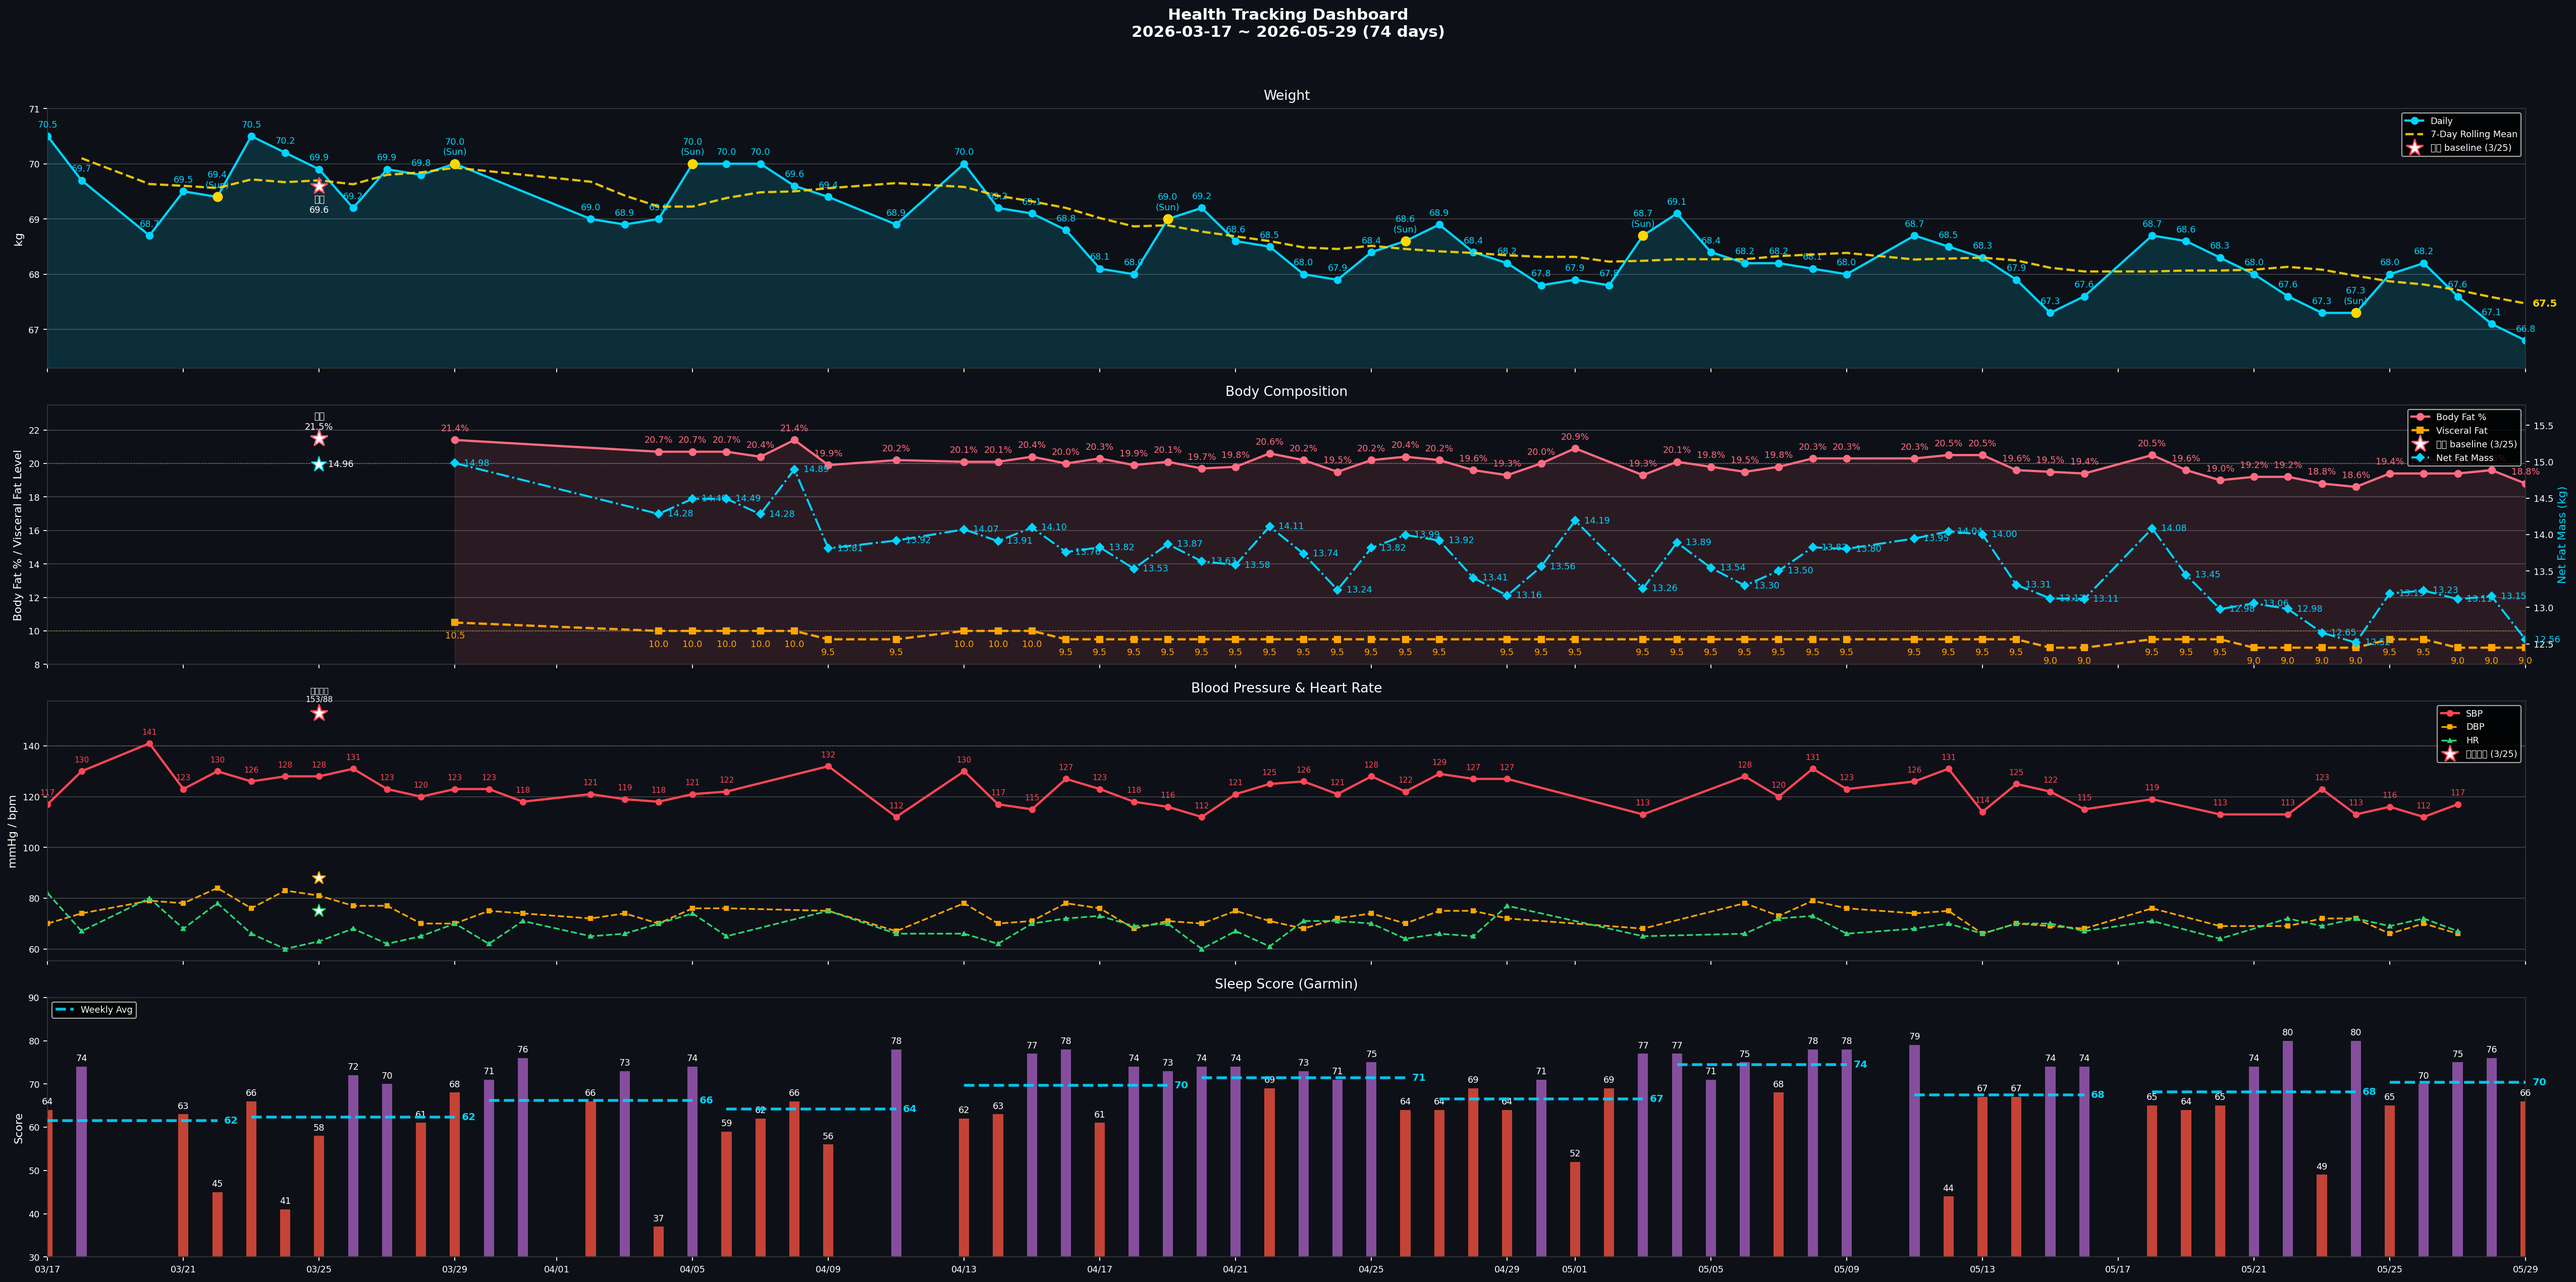
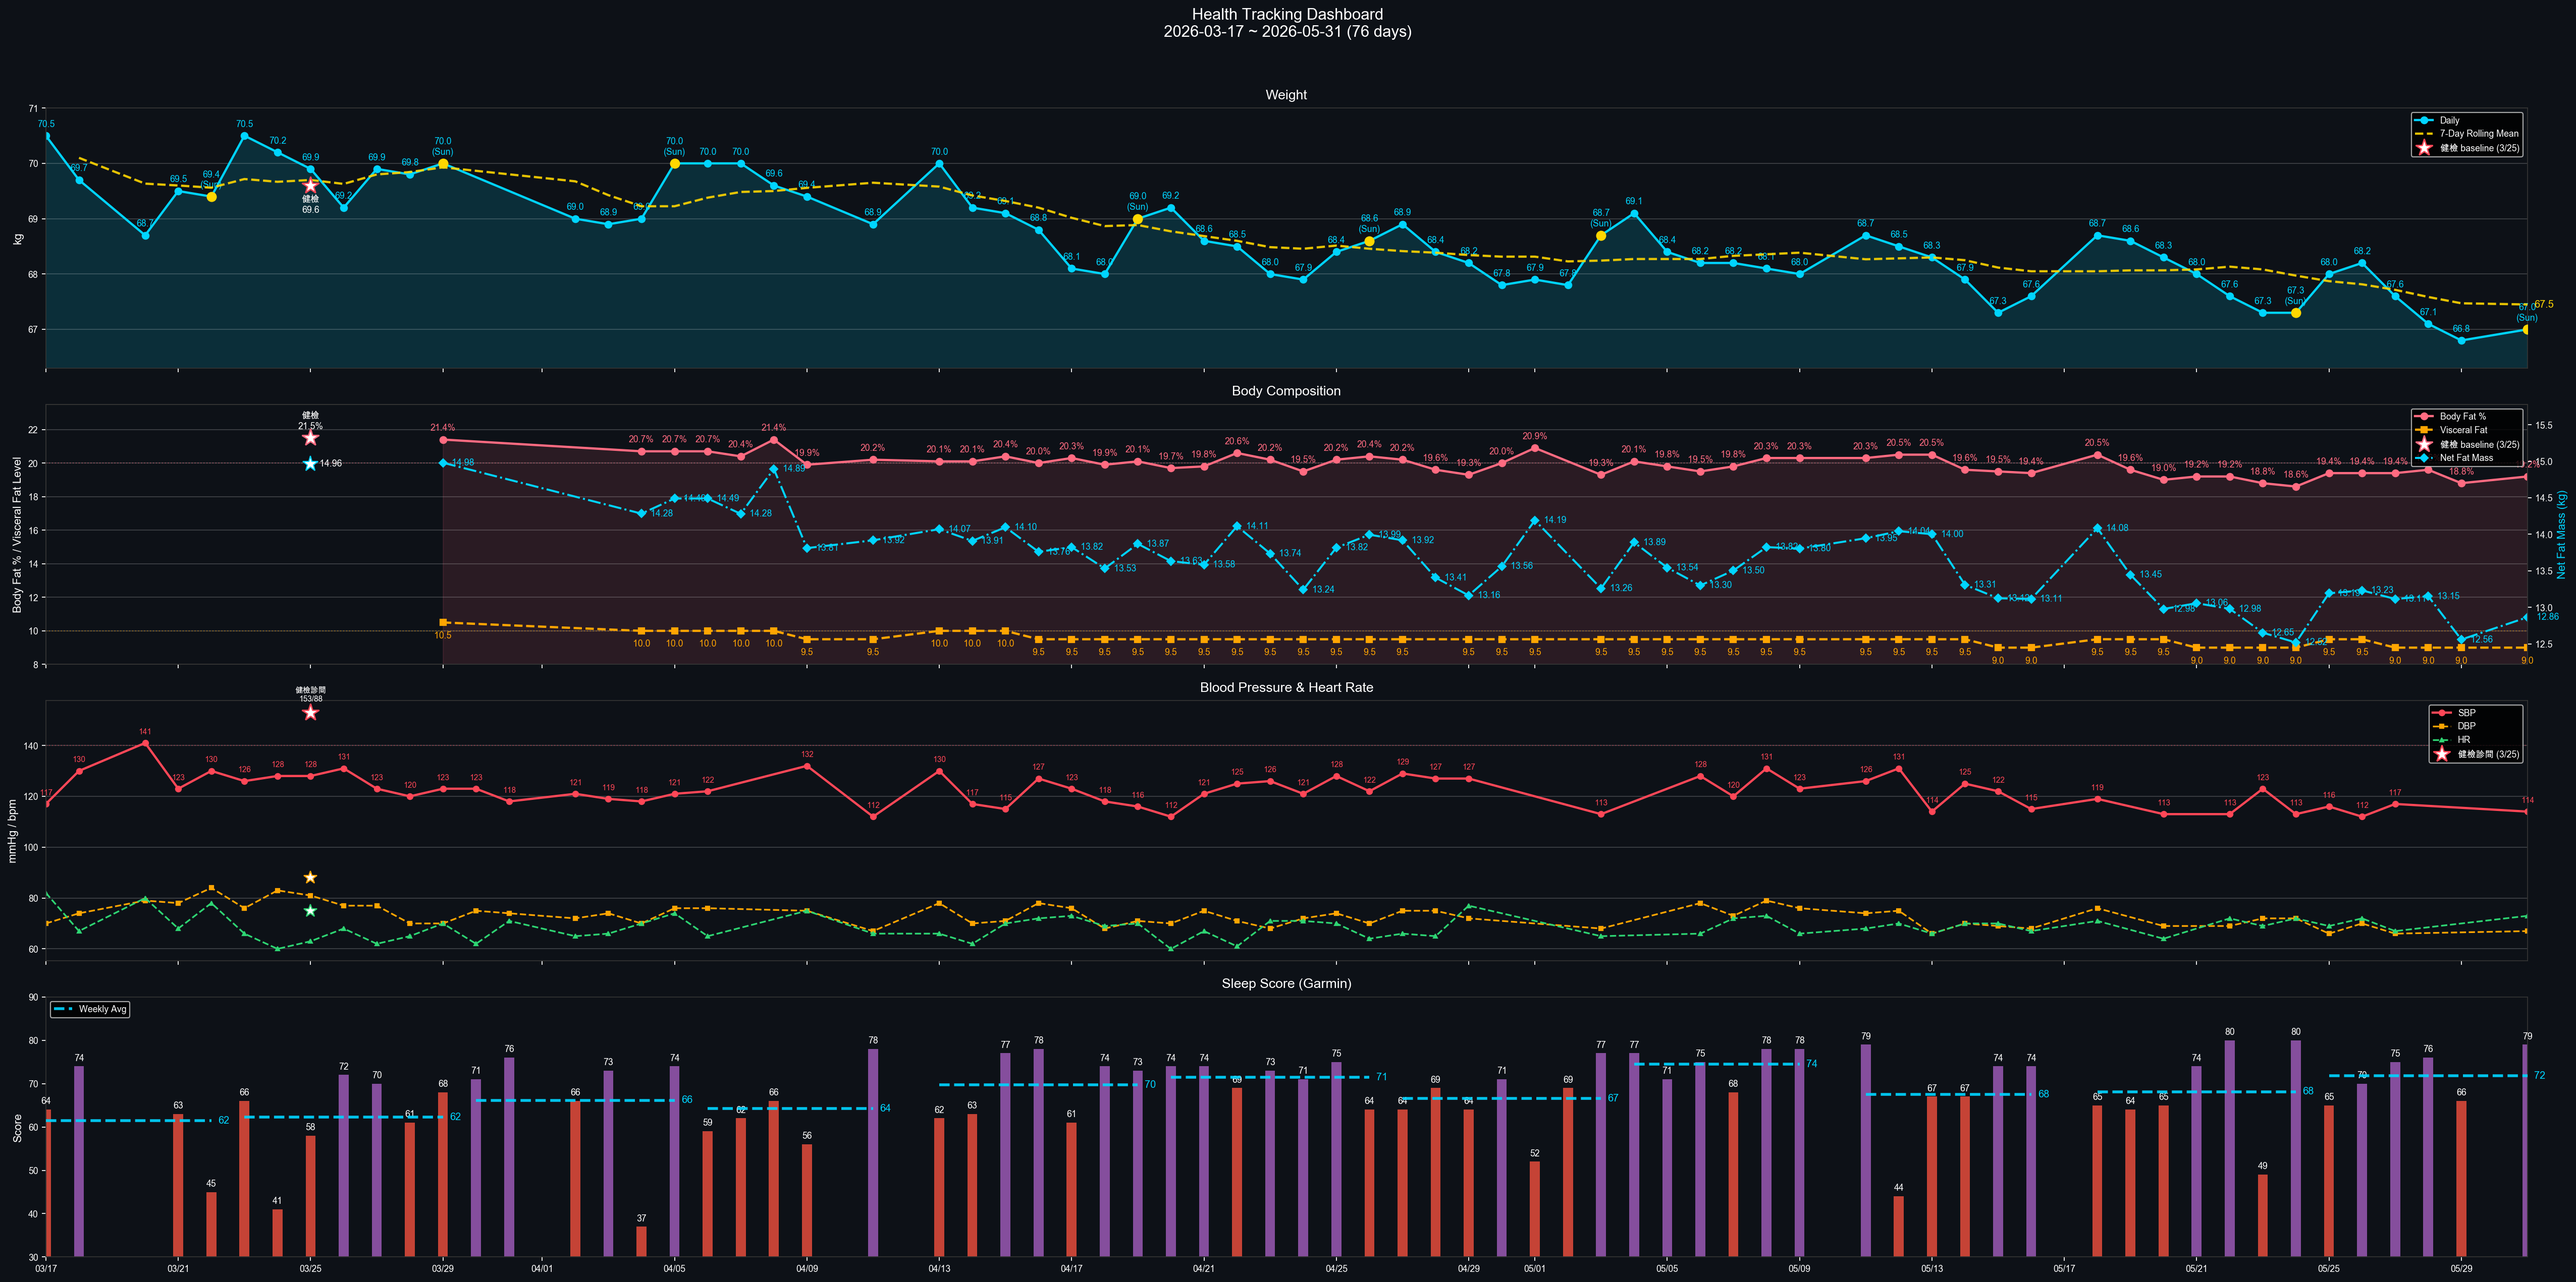
daily health log 2026-05-31
- 體重 67.0 / 體脂 19.2% / 內臟脂肪 9.0（體脂率較 5/24 反升 +0.6%，需關注 cut 期肌肉保留）
- BP 第二次 114/67/73，僅單次測量（第一次未紀錄）
- 睡眠 6h11m，Sleep Score 79 / BB 69 / 主觀 3，就寢 01:01 異常晚
- SpO2 T90 16.0%、最長 desat event 39 分鐘（紅旗連續），但睡前洗澡後未複測配戴，標記為待驗證
- 身體信號清，運動安排爬象山（Zone 2–3）
- weekly W22 補上 5/30、5/31 數據；dashboard + data.js 已重生

diff --git a/data.js b/data.js
@@ -14,8 +14,8 @@ window.HC_DATA = {
     lede:    { en: "Sleep, BP, lipids, uric acid — one shared metabolic root. Lifestyle stacks first; medication only after lifestyle plateaus.",
                zh: "睡眠、血壓、血脂、尿酸——共享同一個代謝根源。生活方式介入優先，等到效果平台期再考慮藥物。" },
     progressLbl: { en: "Weight progress · 70 → 65 kg", zh: "體重進度 · 70 → 65 公斤" },
-    progressMeta: { en: "Day 74 · 67.3 kg · Sat official (5/23)", zh: "第 74 天 · 67.3 公斤 · 週六正式（5/23）" },
-    startDate: { en: "Start date · Mar 17, 2026 · Last sync 5/29", zh: "起始日期 · 2026 年 3 月 17 日 · 最後同步 5/29" },
+    progressMeta: { en: "Day 76 · 67.3 kg · Sat official (5/23)", zh: "第 76 天 · 67.3 公斤 · 週六正式（5/23）" },
+    startDate: { en: "Start date · Mar 17, 2026 · Last sync 5/31", zh: "起始日期 · 2026 年 3 月 17 日 · 最後同步 5/31" },
     startWeight: 70,
     targetWeight: 65,
     currentWeight: 67.3,
@@ -43,14 +43,14 @@ window.HC_DATA = {
   markers: [
     {
       sys: "heart", name: { en: "Blood Pressure", zh: "血壓" },
-      val: "116/72", unit: "mmHg",
-      delta: { en: "W21 weekly avg (5 days) · target met (<130) · last 117/66 (5/27)", zh: "W21 週均（5 天）· 已達標 (<130) · 最新 117/66 (5/27)" },
+      val: "115/67", unit: "mmHg",
+      delta: { en: "W22 weekly avg (4 days) · target met (<130) · last 114/67 (5/31)", zh: "W22 週均（4 天）· 已達標 (<130) · 最新 114/67 (5/31)" },
       cadence: { en: "Daily · weekly avg", zh: "每日 · 週均" },
       status: "ok",
     },
     {
       sys: "sleep", name: { en: "Sleep Score", zh: "睡眠分數" },
-      val: "66", unit: "Garmin",
+      val: "79", unit: "Garmin",
       delta: { en: "5/4 · OSA flag: T90 18.4% (severe)", zh: "5/4 · OSA 紅旗：T90 18.4%（重度）" },
       cadence: { en: "Daily · Garmin", zh: "每日 · Garmin" },
       status: "warn",
@@ -921,14 +921,14 @@ window.HC_DATA = {
   tracker: {
     // [SBP, DBP] — gaps filled with prior reading
     bp: [
-      [122,69], [115,68], [119,76], [119,76], [113,69], [113,69], [113,69], [123,72], [113,72], [116,66], [112,70], [117,66], [117,66], [117,66],
+      [115,68], [119,76], [119,76], [113,69], [113,69], [113,69], [123,72], [113,72], [116,66], [112,70], [117,66], [117,66], [117,66], [114,67],
     ],
     // daily weight (kg)
-    weight: [67.3, 67.6, 68.7, 68.6, 68.3, 68, 67.6, 67.3, 67.3, 68, 68.2, 67.6, 67.1, 66.8],
+    weight: [67.6, 68.7, 68.6, 68.3, 68, 67.6, 67.3, 67.3, 68, 68.2, 67.6, 67.1, 66.8, 67],
     // Garmin Sleep Score
-    sleep:  [74, 74, 65, 64, 65, 74, 80, 49, 80, 65, 70, 75, 76, 66],
+    sleep:  [74, 65, 64, 65, 74, 80, 49, 80, 65, 70, 75, 76, 66, 79],
     // Body Battery waking
-    bb:     [51, 63, 48, 62, 54, 61, 56, 34, 59, 55, 53, 64, 59, 55],
+    bb:     [63, 48, 62, 54, 61, 56, 34, 59, 55, 53, 64, 59, 55, 69],
     // SpO2 nightly nadir % (last 14 days, parallel to bp/weight/sleep/bb).
     // Earlier nights null until sync_data_js.py backfills; banner only uses trailing values.
     spo2Nadir: [null, null, null, null, null, 84, 79, 87, 85, 84, 84, 86, 82, 84],

diff --git a/reviews/daily/2026-05-31.md b/reviews/daily/2026-05-31.md
@@ -1,0 +1,136 @@
+# 晨間健康紀錄 — 2026-05-31
+
+*3 分鐘。起床後立即完成。記錄，不分析。*
+
+---
+
+## 體重 / 體組成
+
+**今日：67.0 kg**
+**體脂率：19.2 %**
+**內臟脂肪等級：9.0**
+**腰圍 (WHO midpoint)：[ ] cm**（最下肋骨下緣 + 髂嵴頂端兩點水平中點環繞，通常在肚臍上方 2-5 cm；**與健檢歷史可比**；目標維持 ≤ 83、推進至 < 80 cm）
+**腰圍 (最大腹圍)：[ ] cm**（自然站立、吐氣末、不收腹，軟尺上下移動找最大讀數；通常在肚臍 0 至 -4 cm；**對內臟脂肪變化最敏感**）
+
+*每週六早晨為正式體重紀錄（排尿後、進食前；連 5 個工作日後、週末大餐前的真實低點）。其他日可選填。*
+*腰圍每日量（起床排尿後、進食前）。量兩個位置（WHO + max），方向應一致；若差距 > 3 cm 持續，考慮以 max 為主追蹤指標。*
+*WHO midpoint：科學標準，國健署 / 健檢 / metabolic syndrome 診斷用；最大腹圍：內臟脂肪 visceral fat correlation 最強。*
+
+---
+
+## 血壓（晨間）
+
+*起床後 1 小時內，上完廁所、進食前。坐下安靜 5 分鐘，連量兩次取第二次。*
+
+| 次數 | 收縮壓 | 舒張壓 | 心率 |
+|------|--------|--------|------|
+| 第一次 | — | — | — |
+| 第二次 | 114 | 67 | 73 |
+
+---
+
+## 睡眠狀態
+
+**Garmin 偵測入睡：** 01:01
+**實際上床：** 00:48（估算）
+**實際起床：** 07:23
+**中途醒來：** 無
+**Garmin Sleep Score：** 79 / 100
+**Garmin Body Battery 起床值：** 69
+**主觀恢復感：** 3 / 5（1=極度疲憊, 5=精力充沛）
+**總睡眠時長：** 6h 11m（深眠 127 分｜REM 86 分）
+**入睡 latency：** 13 分
+
+### SpO2 Desat Events（2026-05-31 夜）
+
+睡眠平均 95.0%｜瞬間最低 **86%**｜T90 ≈ **16.0%**（SpO2 < 90% 累計 60 分）
+
+| 時段 | 長度 | 最低 | 平均 | 分級 |
+|---|---|---|---|---|
+| 01:02–01:40 | **39 分** | 86% | 87% | 🟡 紅旗（最長 event；逼近重度） |
+| 02:06–02:14 | 9 分 | 89% | 89% | 🟢 邊緣 |
+| 03:27–03:36 | 10 分 | 88% | 88% | 🟢 邊緣 |
+| 05:19 | 1 分 | 89% | 89% | 🟢 邊緣 |
+| 05:22 | 1 分 | 88% | 88% | 🟢 邊緣 |
+
+**⚠ 資料品質註記：** 睡前洗澡後未複測配戴；錶帶可能位移或皮膚潮濕影響 SpO2 訊號穩定。今晚 events 標記為**待驗證**（不予刪除，但解讀需謹慎）。
+
+**🔴 OSA 紅旗（hypoxic burden 加重，需排除 sensor artifact）：**
+- T90 **16.0% > 10%** ✅ 重度單晚 hypoxic burden（較 5/24 的 10.9% 加重）
+- 最長 event **39 分鐘 > 15 分鐘** ✅ 重度累積缺氧（39 分平台 ≠ artifact 典型鋸齒形態，傾向真實 desat）
+- 瞬間最低 86%（未達 < 80% 重度門檻，較 5/24 的 78% 已改善 — 可能與配戴差有關）
+- **行動建議：** (1) 今晚睡前洗澡後**先重新調整錶帶並靜待 5 分鐘確認 HR/SpO2 訊號穩定**再就寢，排除配戴干擾；(2) PSG 預約進度需在本週落地
+
+### SpO2 夜間最低（7 晚趨勢）
+
+| 日期 | -6 | -5 | -4 | -3 | -2 | -1 | 今晨 |
+|------|----|----|----|----|----|----|------|
+| 日期 | | | | | | | 05-31 |
+| 最低 % | | | | | | | 86 |
+
+**今晨日均 SpO2：** 96.0%
+**< 88% 連續晚數：** [ ]（OSA 紅旗門檻：連 3 晚 < 88% → 強烈建議 PSG）
+
+**SpO2 全夜圖（含 hypnogram 條帶）：** reviews/daily/spo2/spo2_desat_2026-05-31.png
+**SpO2 趨勢圖：** [ ]
+**SpO2 全夜 Heatmap（28+ 晚 Venu 4 cohort）：** [ ]
+**SpO2 × 睡眠分期 7 晚疊圖：** [ ]
+
+*Sleep Score < 65 或 Body Battery < 50 連續三天 → 重新檢視睡眠修復方案。*
+
+---
+
+## 昨日回顧
+
+**實際飲水量：** 1.50 L（目標 ≥ 2.5L；高尿酸最佳 2.8–3.0L；17:00 前完成 60-70%）— ⚠ 缺口 1.0L
+**昨日活動消耗：** 134 kcal（含 BMR；walking 27.8 min @ avg HR 94，步數 9,235）
+  - > 300 kcal → 今日可彈性增加 200-300 kcal 攝取
+  - < 100 kcal → 今日加強運動（補一段 Zone 2 走路 30 分）
+**昨日 Na / K / Na-K ratio：** [ ] mg / [ ] mg / [ ]（自動讀自 `scripts/analyze_nutrition.py --date YYYY-MM-DD`）
+  - Na/K < 0.5 ✅ / 0.5-0.6 🟢 / 0.6-0.8 🟡 / > 0.8 🟠（INTERSALT 1988）
+  - 連 3 天 ≥ 0.8 → 首選減鈉（自煮蛋取代茶葉蛋 −440 mg）或加 K（香蕉 +422 mg）
+
+---
+
+## 身體信號
+
+*任何張力、疼痛、疲勞、異常 — 或「清」。記位置、性質、強度。*
+
+| 部位 | 性質 | 強度 (0-10) |
+|------|------|-------------|
+| — | 清 | 0 |
+
+---
+
+## 今日計畫速記
+
+- [x] 飲水目標：**2.5 L**（建議 2.5–3.0L；錨點 09:30 ≥1.0L / 13:30 ≥2.0L / 17:00 截止 2.5L）
+- [x] 補充品（核心，2026-05-11 v2）— **照預設執行**：
+  - 早餐（06:00）：D3 2000 IU + **K2 MK-7 180 mcg** + **L-Citrulline 4 g** + 益生菌
+  - 午餐前 30 min：Psyllium 5 g + 350 mL 水
+  - 晚餐前 30 min：Psyllium 5 g + 350 mL 水
+  - 晚餐後：魚油 ×4（拆 18:30 ×2 + 19:30 ×2）
+  - 睡前（21:00）：鎂甘胺酸 400 mg + 酸櫻桃 1000-2000 mg + **Glycine 純粉 3 g**（起步 1.5 g × 3 晚）
+  - 茶飲：洛神花 ×2 杯（早 + 14:00 前）
+  - 食物層：南瓜籽 30 g（15:30）+ **菇蕈 100-130 g/天**（午 30-50 + 晚 50-80）
+  - ⏸ 待定：NAC 600 mg × 2（待 PSG 結果）
+- [ ] 運動（17:00 固定）：**爬象山**（Zone 2–3 階梯上山，建議控制 RPE ≤ 6/10；上山前 350 mL 補水 + 鹽，下山後再 350 mL）
+- [ ] 活動度/伸展（09:30 + 20:30 兩次錨點）：**照預設執行**（爬山後加強股四頭 + 髂脛束伸展）
+- [ ] Wind-down（20:00 燈光降 + 螢幕濾鏡，液體截止）
+- [ ] 上床 21:30 / 熄燈 22:00（TST 目標 7h+)
+
+---
+
+---
+
+## 💡 PT 建議
+
+1. **體脂率回升警訊（5/24 18.6% → 今日 19.2%，+0.6%）**：體重下降 0.3 kg 但體脂率上升，意味掉的是肌肉/水分而非脂肪 — 推測與本週 TST 不足（昨晚 6h11m、就寢 01:01）+ 昨日飲水僅 1.5L 有關。今日爬象山屬 Zone 2–3 中等強度，**控制 RPE ≤ 6/10**，且**完成後 2 小時內補蛋白 20–25g**（雞胸 / 豆腐 / 蛋白粉），抓住 cut 期肌肉保留窗口。
+
+2. **OSA 紅旗連續性 + 配戴可信度雙重訊號**：今晚 T90 16.0% + 最長 event 39 分鐘，雖然瞬間最低 86% 較 5/24 改善，但 39 分鐘平台不太像 sensor artifact。**今晚睡前洗澡後務必重新調整錶帶、靜置 5 分鐘確認 HR/SpO2 訊號穩定再就寢**，排除配戴干擾後若 T90 仍 > 10% → PSG 預約落地為本週首要任務。
+
+3. **飲水缺口需主動補回**：昨日 1.5L 已觸發「< 2.0L 警示」（UA 排泄效率降低），今日起床先 500 mL 補水，目標 2.5L 在 17:00 前完成 60-70%；爬山前後額外 350 mL ×2 + 一小撮鹽，避免脫水疊加運動 cortisol 影響今晚睡眠品質。
+
+---
+
+*Filed: reviews/daily/2026-05-31.md*

diff --git a/reviews/weekly/2026-W22.md b/reviews/weekly/2026-W22.md
@@ -31,9 +31,9 @@
 
 |  | 一 | 二 | 三 | 四 | 五 | 六 | 日 |
 |--|----|----|----|----|----|----|-----|
-| 體重 (kg) | 68.0 | 68.2 | 67.6 | 67.1 | 66.8 | | |
-| 體脂率 (%) | 19.4 | 19.4 | 19.4 | 19.6 | 18.8 | | |
-| 內臟脂肪 | 9.5 | 9.5 | 9.0 | 9.0 | 9.0 | | |
+| 體重 (kg) | 68.0 | 68.2 | 67.6 | 67.1 | 66.8 | | 67.0 |
+| 體脂率 (%) | 19.4 | 19.4 | 19.4 | 19.6 | 18.8 | | 19.2 |
+| 內臟脂肪 | 9.5 | 9.5 | 9.0 | 9.0 | 9.0 | | 9.0 |
 | **腰圍 WHO (cm)** | | | | | | | |
 | **腰圍 max (cm)** | | | | | | | |
 
@@ -57,7 +57,7 @@
 | 05-28 (四) | | | |
 | 05-29 (五) | | | |
 | 05-30 (六) | | | |
-| 05-31 (日) | | | |
+| 05-31 (日) | 114 | 67 | 73 |
 
 **本週平均：** _____ / _____ mmHg，心率 _____ bpm
 
@@ -74,8 +74,8 @@
 | 05-27 (三) | 21:35 | 03:52 | 1次 | 75 | 64 | 3 |
 | 05-28 (四) | 21:27 | 05:13 | 無 | 76 | 59 | 3 |
 | 05-29 (五) | 23:56 | 05:25 | 無 | 66 | 55 | 3 |
-| 05-30 (六) | | | | | | |
-| 05-31 (日) | | | | | | |
+| 05-30 (六) | 21:54 | 03:14 | — | 73 | 67 | — |
+| 05-31 (日) | 01:01 | 07:23 | 無 | 79 | 69 | 3 |
 
 **Sleep Score 週均：** _____ / 100
 **Body Battery 週均：** _____
@@ -100,7 +100,7 @@
 
 | 信號（部位+性質） | 出現天數 | 平均強度 | 趨勢（↑↓→） | 備註 |
 |-------------------|----------|----------|-------------|------|
-| 清 | 5 | — | → | 05-25、05-26、05-27、05-28、05-29 無不適 |
+| 清 | 6 | — | → | 05-25、05-26、05-27、05-28、05-29、05-31 無不適 |
 
 **反覆出現（≥ 3 天）：** 無
 
@@ -128,6 +128,8 @@
 | 05-27 (三) | 步行/散步 |
 | 05-28 (四) | 走路（Zone 2，30 分）|
 | 05-29 (五) | 走路 Zone 2 |
+| 05-30 (六) | 走路 27.8 分（Zone 1, 9,235 步） |
+| 05-31 (日) | 爬象山（Zone 2–3 階梯） |
 
 ---
 

diff --git a/reports/daily-garmin/2026-05-30.md b/reports/daily-garmin/2026-05-30.md
@@ -1,0 +1,33 @@
+# Garmin 每日摘要 — 2026-05-30
+
+## 睡眠
+- 就寢：21:54｜起床：03:14
+- 總時長：5h 19m
+- 深眠：88 分｜REM：59 分
+- Sleep Score：73
+- Body Battery 起床值：67
+
+## 靜息心率
+- RHR：56.0 bpm
+
+## 壓力
+- 日均：27
+
+## 步數
+- 總計：9,235
+
+## SpO2
+- 日均：96.0%
+- 最低：88%
+
+## 活動
+| 時段 | 類型 | 距離 | 時長 | 平均 HR | 最大 HR | 主動 kcal | 含 BMR |
+|------|------|------|------|---------|---------|-----------|--------|
+| 06:46 | walking | 1.09 km | 27.8 min | 94 | 118 | 98 | 134 |
+
+## 飲水
+- 實際：1.50 L
+- 目標：2.28 L
+- 運動流汗耗水：0.28 L
+
+_Source: data/garmin/2026-05-30.json (gitignored)_

diff --git a/reports/daily-garmin/2026-05-31.md b/reports/daily-garmin/2026-05-31.md
@@ -1,0 +1,29 @@
+# Garmin 每日摘要 — 2026-05-31
+
+## 睡眠
+- 就寢：01:01｜起床：07:23
+- 總時長：6h 11m
+- 深眠：127 分｜REM：86 分
+- Sleep Score：79
+- Body Battery 起床值：69
+- 估算上床：00:48｜入睡 latency：13 分
+  - 備註：步數訊號缺
+
+## 靜息心率
+- RHR：57.0 bpm
+
+## 壓力
+- 日均：26
+
+## 步數
+- 總計：3,645
+
+## SpO2
+- 日均：96.0%
+- 最低：86%
+
+## 飲水
+- 實際：1.30 L
+- 目標：2.00 L
+
+_Source: data/garmin/2026-05-31.json (gitignored)_
